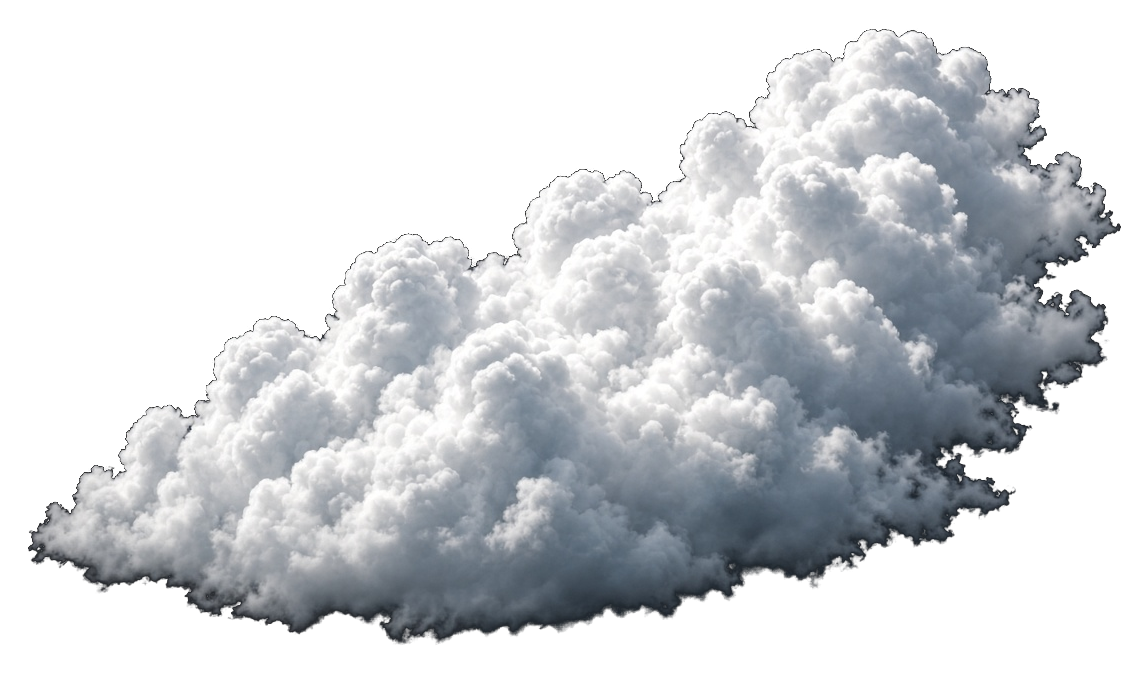
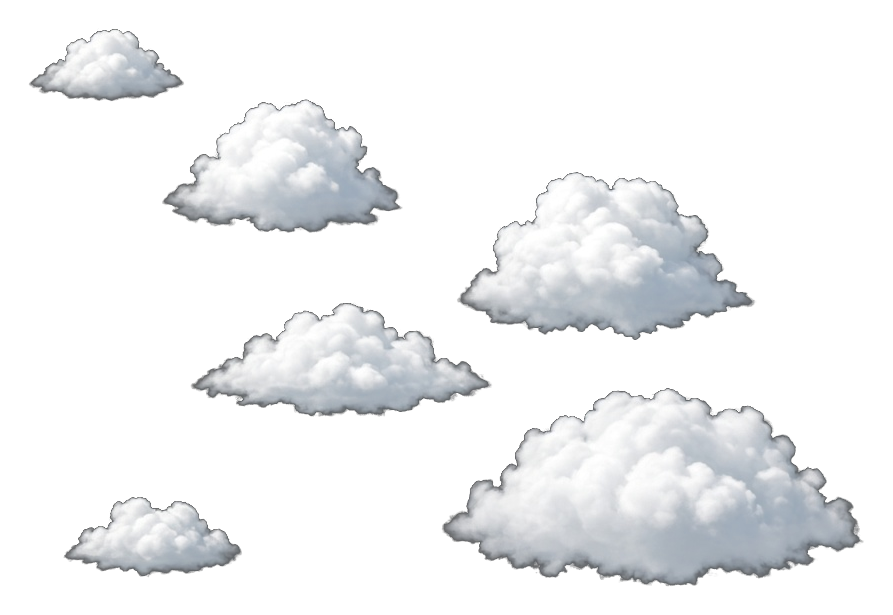
改良降落薄雲方向與國旗間距

diff --git a/public/style.css b/public/style.css
@@ -31,12 +31,12 @@
 .landing-cloud-layer{position:absolute;left:-25%;top:-25%;width:150%;height:150%;object-fit:cover;will-change:transform;transform:translate3d(4%,8%,0)}
 .landing-cloud-scene.is-on .landing-cloud-layer{animation:landing-cloud-descent 18s cubic-bezier(.28,.08,.22,1) forwards}
 .landing-wing{position:absolute;z-index:1;left:-14%;bottom:-15%;width:148%;height:auto;transform:rotate(1.2deg);transform-origin:65% 55%;filter:brightness(1.12) saturate(.68) contrast(.94) hue-rotate(8deg) drop-shadow(0 8px 13px rgba(22,47,64,.14))}
-.landing-cloud-wisps{position:absolute;z-index:3;left:-72%;bottom:-28%;width:172%;height:128%;object-fit:contain;opacity:0;pointer-events:none;will-change:transform,opacity;filter:blur(1.5px)}
+.landing-cloud-wisps{position:absolute;z-index:3;right:-78%;bottom:-24%;width:156%;height:110%;object-fit:contain;opacity:0;pointer-events:none;will-change:transform,opacity;filter:blur(2px) brightness(1.08);mix-blend-mode:screen}
 .landing-cloud-scene.is-on .landing-cloud-wisps{animation:landing-wisps-pass 12.5s cubic-bezier(.3,.04,.22,1) 1s forwards}
 .page-hidden .landing-cloud-layer{animation-play-state:paused!important}
 .page-hidden .landing-cloud-wisps{animation-play-state:paused!important}
 @keyframes landing-cloud-descent{from{transform:translate3d(4%,8%,0) scale(1)}to{transform:translate3d(-4%,-12%,0) scale(1.12)}}
-@keyframes landing-wisps-pass{0%{transform:translate3d(0,18%,0) scale(.96);opacity:0}18%{opacity:.32}46%{opacity:.82}72%{opacity:.54}100%{transform:translate3d(92%,-34%,0) scale(1.12);opacity:0}}
+@keyframes landing-wisps-pass{0%{transform:translate3d(0,16%,0) scale(.94);opacity:0}18%{opacity:.16}46%{opacity:.5}72%{opacity:.34}100%{transform:translate3d(-94%,-42%,0) scale(1.08);opacity:0}}
 @media(prefers-reduced-motion:reduce){.inflight-cloud-track,.landing-cloud-layer,.landing-cloud-wisps{animation:none!important}.landing-cloud-wisps{display:none}}
 .scene-image.visible{z-index:2}
 #globe-canvas{background:#102e3e;transition:opacity 1.4s cubic-bezier(.45,.05,.2,1);z-index:3;border-radius:inherit}
@@ -115,7 +115,9 @@ body.window-only .window-frame{aspect-ratio:388 / 458;width:min(88vw,540px,calc(
 .leg-mini-needle:before{content:'';position:absolute;left:50%;top:-1px;border-left:3px solid transparent;border-right:3px solid transparent;border-bottom:7px solid #fff;translate:-50% -45%}
 .leg-mini-needle:after{content:'';position:absolute;inset:0;background:linear-gradient(180deg,transparent 0,#fff 42%,transparent 68%);background-size:100% 260%;filter:drop-shadow(0 0 4px #fff);animation:compass-glow 1.25s linear infinite}
 .leg-mini-dot{position:absolute;left:50%;top:50%;width:5px;height:5px;border-radius:50%;background:#fff;translate:-50% -50%;box-shadow:0 0 0 3px rgba(255,255,255,.2);animation:compass-pulse 1.8s ease-in-out infinite}
-.leg-heading-copy{display:flex;align-items:baseline;justify-content:center;gap:1.25cqi}
+.leg-heading-copy{display:flex;align-items:baseline;justify-content:center}
+.leg-heading-text{position:relative;display:flex;align-items:baseline;gap:1.25cqi;min-width:0;max-width:100%}
+.leg-heading-text .leg-place.to{min-width:0}
 .leg-heading-meta{display:none;font-family:'DM Sans','PingFang TC',system-ui,sans-serif;font-size:clamp(12px,2.75cqi,15px);font-weight:600;letter-spacing:.04em;color:rgba(255,255,255,.82);white-space:nowrap}
 .leg-place{font-family:'Noto Serif TC','Songti TC',serif;white-space:nowrap;overflow:hidden;text-overflow:ellipsis}
 .leg-place.to{max-width:62cqi;font-size:clamp(20px,5.5cqi,30px);font-weight:600;letter-spacing:.05em;line-height:1.15}
@@ -129,9 +131,9 @@ body.window-only .window-frame{aspect-ratio:388 / 458;width:min(88vw,540px,calc(
 .leg-plane{position:absolute;top:50%;left:0;width:4.5cqi;height:1.8cqi;color:#fff;translate:0 -50%;filter:drop-shadow(0 0 4px rgba(255,255,255,.5));z-index:1}
 .leg-strip.is-flying{z-index:5;width:76cqi;max-width:76%;grid-template-columns:clamp(42px,12.5cqi,52px) minmax(0,1fr) clamp(42px,12.5cqi,52px);column-gap:2.2cqi;justify-content:center;justify-items:start}
 .leg-strip.is-flying .leg-destination{display:contents}
-.leg-strip.is-flying .leg-flag{position:absolute;z-index:2;left:-1.6cqi;top:-1cqi}
+.leg-strip.is-flying .leg-flag{position:absolute;z-index:2;right:calc(100% + 1.4cqi);top:50%;translate:0 -50%}
 .leg-strip.is-flying .leg-mini-compass{display:block;grid-column:1;grid-row:1 / 3}
-.leg-strip.is-flying .leg-heading-copy{grid-column:2;grid-row:1;justify-content:center;justify-self:stretch;align-self:center;min-width:0;overflow:hidden}
+.leg-strip.is-flying .leg-heading-copy{grid-column:2;grid-row:1;justify-content:center;justify-self:stretch;align-self:center;min-width:0;overflow:visible}
 .leg-strip.is-flying .leg-place.to{max-width:100%;font-size:clamp(17px,4.2cqi,22px);letter-spacing:.06em}
 .leg-strip.is-flying .leg-heading-meta{display:block}
 .leg-strip.is-flying .leg-track{display:none}
@@ -139,8 +141,8 @@ body.window-only .window-frame{aspect-ratio:388 / 458;width:min(88vw,540px,calc(
 .leg-strip.is-flying .leg-place.from{max-width:none}
 .leg-strip.is-landed{z-index:5;width:76cqi;max-width:76%;grid-template-columns:minmax(0,1fr) minmax(0,62cqi) minmax(0,1fr);column-gap:1.8cqi;justify-content:center;justify-items:start}
 .leg-strip.is-landed .leg-destination{display:contents}
-.leg-strip.is-landed .leg-flag{grid-column:1;grid-row:1;justify-self:end;align-self:center}
-.leg-strip.is-landed .leg-heading-copy{grid-column:2;grid-row:1;justify-self:stretch;justify-content:center;min-width:0;max-width:100%;overflow:hidden}
+.leg-strip.is-landed .leg-flag{position:absolute;right:calc(100% + 1.4cqi);top:50%;translate:0 -50%;z-index:2}
+.leg-strip.is-landed .leg-heading-copy{grid-column:2;grid-row:1;justify-self:stretch;justify-content:center;min-width:0;max-width:100%;overflow:visible}
 .leg-strip.is-landed .leg-place.to{max-width:100%}
 .leg-strip.is-landed .leg-track{grid-column:2;grid-row:2;justify-self:center}
 .leg-strip.is-landed .leg-origin-label{display:block;grid-column:2;grid-row:3;width:100%;min-width:0;max-width:100%;margin:.8cqi 0 0;overflow:hidden;text-overflow:ellipsis;text-align:center}

diff --git a/public/index.html b/public/index.html
@@ -131,12 +131,11 @@
               <div class="holy-light" aria-hidden="true"></div>
               <div class="leg-strip" id="leg-strip" hidden aria-label="這趟從哪到哪">
                 <div class="leg-destination">
-                  <span class="leg-flag" id="leg-flag" aria-hidden="true"></span>
                   <span class="leg-mini-compass" aria-hidden="true">
                     <i class="mini-n">N</i><i class="mini-e">E</i><i class="mini-s">S</i><i class="mini-w">W</i>
                     <span class="leg-mini-needle"></span><span class="leg-mini-dot"></span>
                   </span>
-                  <span class="leg-heading-copy"><span class="leg-place to" id="leg-to"></span><span class="leg-heading-meta" id="leg-heading-meta"></span></span>
+                  <span class="leg-heading-copy"><span class="leg-heading-text"><span class="leg-flag" id="leg-flag" aria-hidden="true"></span><span class="leg-place to" id="leg-to"></span><span class="leg-heading-meta" id="leg-heading-meta"></span></span></span>
                 </div>
                 <span class="leg-track" aria-hidden="true">
                   <span class="leg-line"></span>
